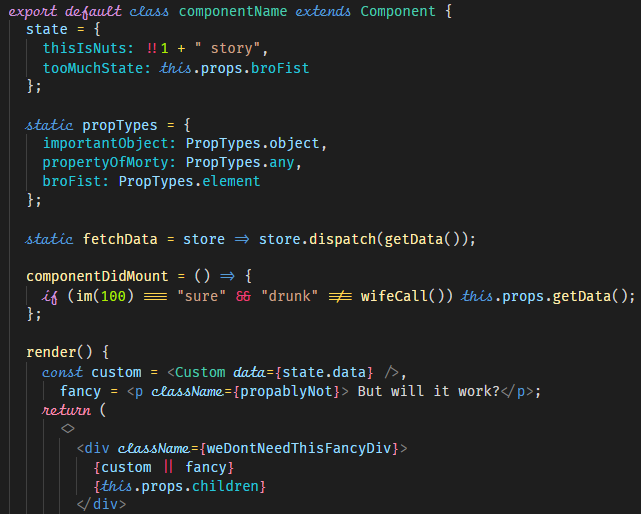
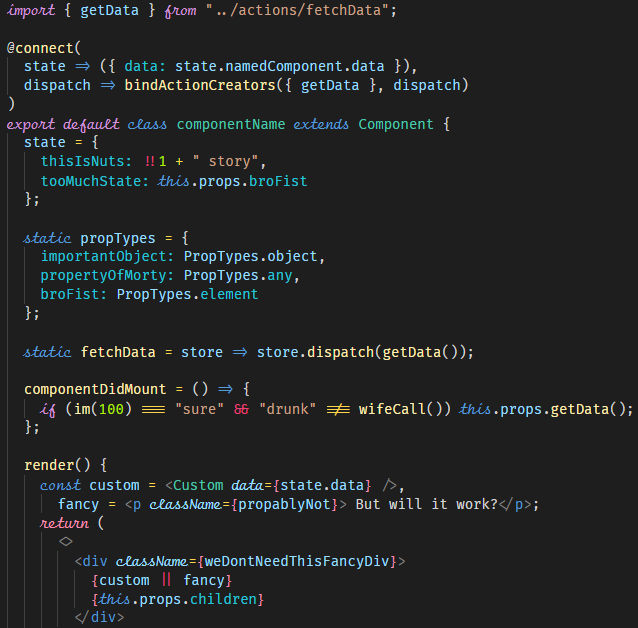
Fix argument color in decorators and other small updates

diff --git a/README.md b/README.md
@@ -10,7 +10,7 @@ Screenshot of dummy JavaScript/React { **left**: Dark++ Italic, **right**: Dark+
 ### **IMPORTANT NOTES:**
 ---
 - Every major update to VSCode needs a re add in `workbench.main.css`
-- First change in fresh `workbench.main.css` will cause VScode to notify You with corrupt installation warning - just ignore it.
+- First change in fresh `workbench.main.css` will cause VScode to notify You with corrupt installation warning - just ignore.
 ---
 ### [+] Theme installation
 In VScode press `ctrl/command + p` to launch the command palette then run command:

diff --git a/CHANGELOG.md b/CHANGELOG.md
@@ -5,6 +5,12 @@ The format is based on [Keep a Changelog](http://keepachangelog.com/en/1.0.0/)
 
 ## [Unreleased]
 
+## [0.0.6] 2018-02-12
+### Fixed
+- Argument color in decorators
+### Changed
+- Update in README.md
+- Update screenshot and close-up
 ## [0.0.5] 2018-02-12
 ### Added
 - Support for italic attribute names
